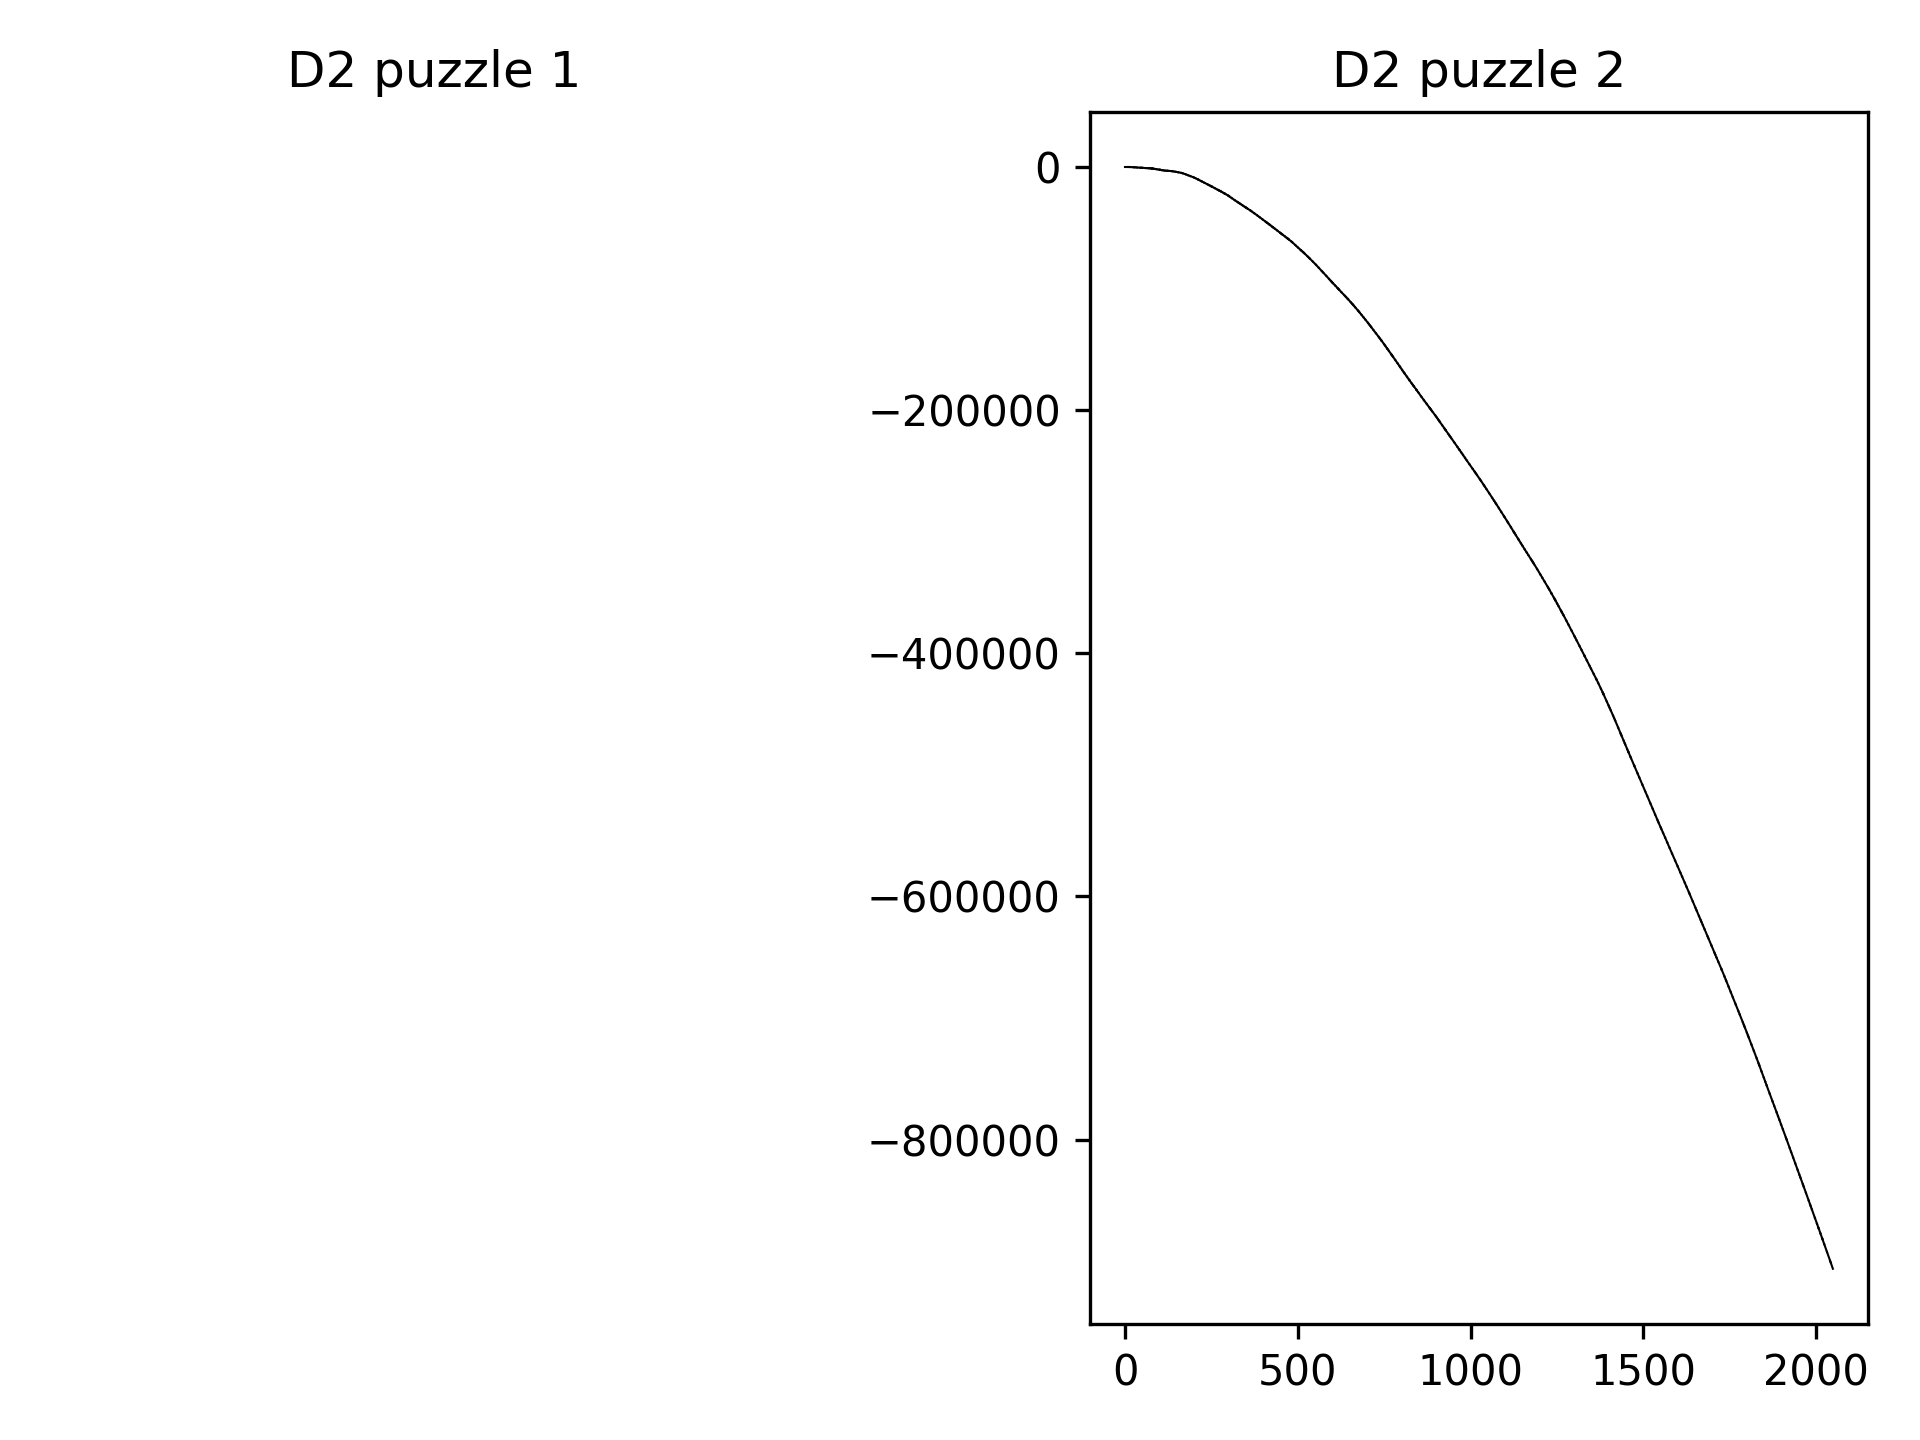
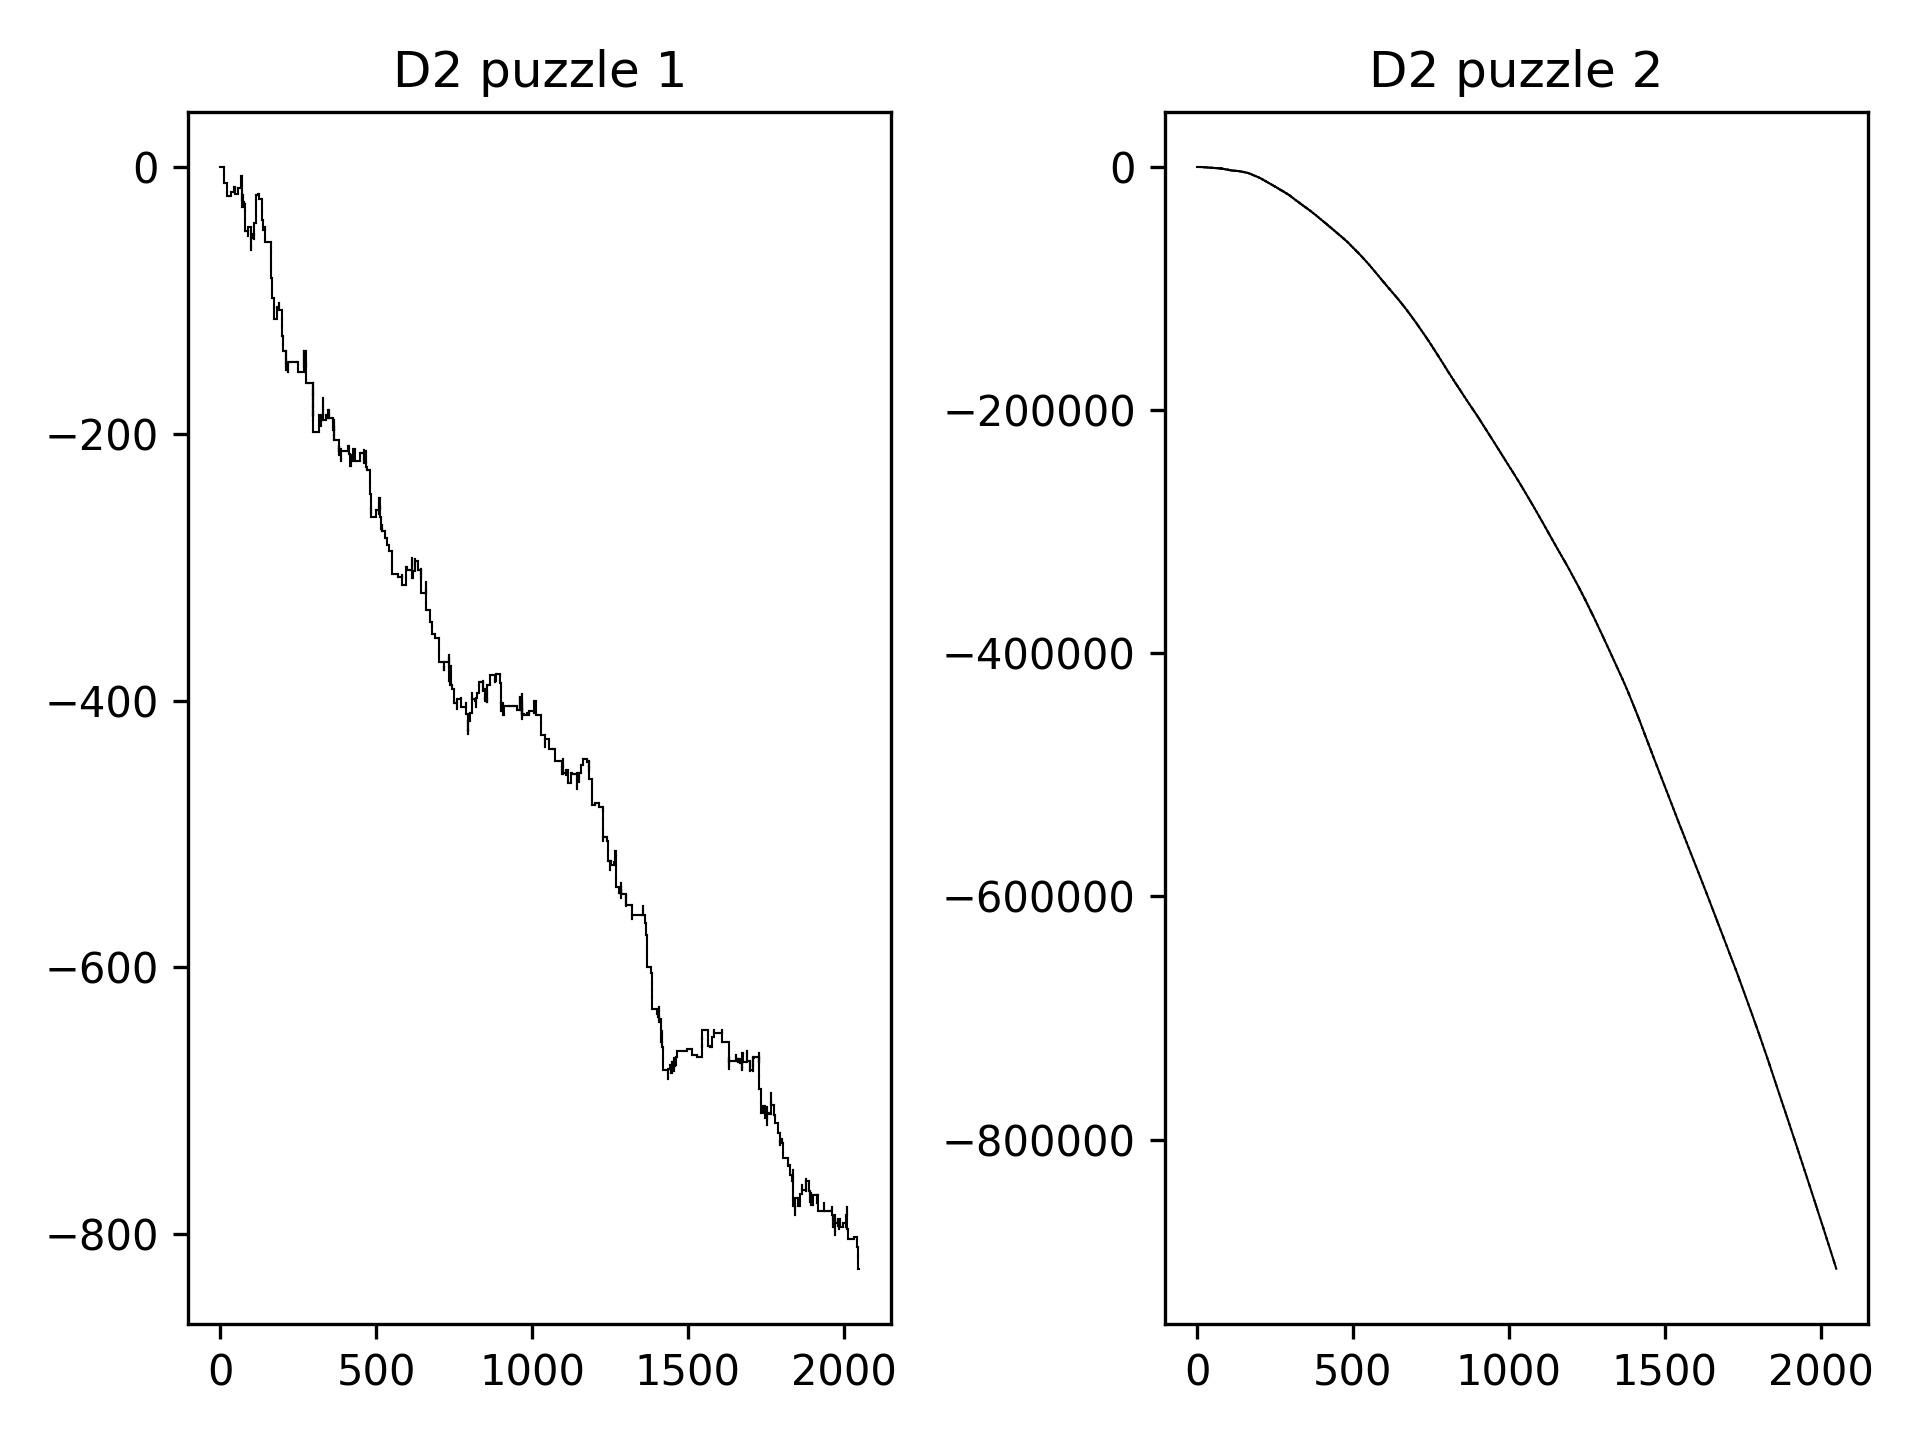
test Generative library

diff --git a/2021/D5_generativepy.py b/2021/D5_generativepy.py
@@ -1,0 +1,64 @@
+import myLib
+import re
+from generativepy.nparray import save_nparray_image
+import numpy as np
+
+DAY       = "D5"
+inputFile = "D:\Dev_Perso\\AdventOfCode\\2021\\"+DAY+".txt"
+
+# ==================================================================================================
+
+def computeMap( inputFile, diagonals:bool):
+    coords=[]
+    for coord in myLib.input_as_lines(inputFile):
+        coords.append( tuple( [int(val) for val in re.findall(r'\d+',coord)]))
+
+    #-> Init a map
+    maxX = max( [ max( [x1,x2]) for (x1, y1 ,x2,y2) in coords] )
+    maxY = max( [ max( [y1,y2]) for (x1, y1 ,x2,y2) in coords] )
+    map  = [[0] * (maxX+1) for i in range(maxY+1)]
+
+    image=np.full((maxX+1, maxY+1, 1), 0, dtype=np.uint)
+
+    # -> Draw the map
+    for (x1, y1, x2, y2) in coords:
+        if diagonals or not diagonals and ( x1==x2 or y1==y2):
+            dx      = (x2 > x1) - ( x2 < x1)
+            dy      = (y2 > y1) - ( y2 < y1)
+            nbIters = max([abs(y2 - y1) + 1, abs(x2 - x1) + 1])
+
+            for iter in range(nbIters):
+                map[x1 + iter * dx][y1 + iter * dy] += 1
+                image[x1 + iter * dx][y1 + iter * dy] += 1
+
+    #-> Compute sum ( cross points)
+    res = sum([sum(val >= 2 for val in row) for row in map])
+    return (res,image)
+
+# --------------------------------------------------------------------------------------------------
+def Puzzle_1( inputFile ):
+
+    res,image = computeMap(inputFile, False)
+    save_nparray_image('D5_puzzle1.png', myLib.generativePy_colorizeImage(image))
+
+    return res
+
+# --------------------------------------------------------------------------------------------------
+def Puzzle_2(inputFile):
+
+    res, image = computeMap(inputFile, True)
+    save_nparray_image('D5_puzzle2.png', myLib.generativePy_colorizeImage(image))
+
+    return res
+
+# ==================================================================================================
+
+myLib.display_header(DAY, inputFile )
+
+myLib.display_result("1",str(Puzzle_1( inputFile )))
+myLib.display_result("2",str(Puzzle_2( inputFile )))
+
+myLib.display_footer()
+
+
+

diff --git a/2021/myLib.py b/2021/myLib.py
@@ -1,6 +1,13 @@
 from typing import List
 from collections import deque
+import numpy as np
+
 import matplotlib.pyplot as plt
+
+from generativepy.nparray import  make_npcolormap, apply_npcolormap
+from generativepy.color import Color
+
+#- ------------------------------------------------------------------------------------------------------------------
 
 def input_as_string(filename:str) -> str:
     """returns the content of the input file as a string"""
@@ -34,6 +41,8 @@ def rotate_list( vList:List, vValue:int) -> List:
     items.rotate(vValue)
     return list(items)
 
+#- ------------------------------------------------------------------------------------------------------------------
+
 def display_header(day:str, filename:str):
     print("====================================================================================================")
     print("- " + day + " -> " + filename)
@@ -48,6 +57,8 @@ def display_footer():
     print("------------------------------------------------------------------------------------------")
     return
 
+#- ------------------------------------------------------------------------------------------------------------------
+
 def init_matlibgraph(day:str):
     figure, graph = plt.subplots(1, 2)
     graph[0].title.set_text(day + " puzzle 1")
@@ -60,3 +71,17 @@ def save_matlibgraph(figure, day:str):
     figure.tight_layout()
     figure.savefig(day + '.png',dpi=300)
 
+#- ------------------------------------------------------------------------------------------------------------------
+
+def generativePy_colorizeImage( image):
+    image = np.reshape(image, (image.shape[0], image.shape[1]))
+    power_counts = np.power(image, 1.2)
+    maxcount = np.max(power_counts)
+
+    normalised_counts = (power_counts * 1023 / max(maxcount, 1)).astype(np.uint32)
+
+    colormap = make_npcolormap(1024, [Color('black'), Color('red'), Color('orange'), Color('yellow'), Color('white')])
+    outarray = np.zeros((image.shape[0], image.shape[1], 3), dtype=np.uint8)
+    apply_npcolormap(outarray, normalised_counts, colormap)
+
+    return outarray

diff --git a/testGenerative.py b/testGenerative.py
@@ -1,0 +1,45 @@
+from generativepy.bitmap import Scaler
+from generativepy.nparray import make_nparray_data, save_nparray, load_nparray, make_npcolormap, apply_npcolormap, save_nparray_image
+from generativepy.color import Color
+from generativepy.analytics import print_stats, print_histogram
+import numpy as np
+
+MAX_COUNT = 10000000
+A = 0.9
+B = -0.6013
+C = 2.0
+D = 0.5
+
+
+def paint(image, pixel_width, pixel_height, frame_no, frame_count):
+    scaler = Scaler(pixel_width, pixel_height, width=3, startx=-2, starty=-2)
+
+    x = 0.01
+    y = 0.01
+    for i in range(MAX_COUNT):
+        x, y = x*x - y*y + A*x + B*y, 2*x*y + C*x + D*y
+        px, py = scaler.user_to_device(x, y)
+        image[py, px] += 1
+
+
+def colorise(counts):
+    counts = np.reshape(counts, (counts.shape[0], counts.shape[1]))
+    power_counts = np.power(counts, 0.25)
+    maxcount = np.max(power_counts)
+    normalised_counts = (power_counts * 1023 / max(maxcount, 1)).astype(np.uint32)
+
+    colormap = make_npcolormap(1024, [Color('black'), Color('red'), Color('orange'), Color('yellow'), Color('white')])
+
+    outarray = np.zeros((counts.shape[0], counts.shape[1], 3), dtype=np.uint8)
+    apply_npcolormap(outarray, normalised_counts, colormap)
+    return outarray
+
+
+data = make_nparray_data(paint, 1600, 1600, channels=1)
+
+#save_nparray("temp.dat", data)
+#data = load_nparray("temp.dat")
+
+frame = colorise(data)
+
+save_nparray_image('testGenerative.png', frame)

diff --git a/2021/D2.py b/2021/D2.py
@@ -6,16 +6,20 @@ inputFile = "D:\Dev_Perso\\AdventOfCode\\2021\\"+DAY+".txt"
 
 # --------------------------------------------------------------------------------------------------
 
-def Puzzle_1a( inputFile ):
+def Puzzle_1a( inputFile , graph ):
+    graph.axis('on')
     posHorizontal = 0
     posDepth      = 0
     rules         = { "forward" : (1,0), "up" : (0,-1), "down" : (0,1)}  #-> action : ( affectH, affectD )
 
     for line in myLib.input_as_lines(inputFile):
+        x, y           = posHorizontal, posDepth
         command        = line.split(' ')
         rule           = rules[command[0]]
         posHorizontal += rule[0] * int(command[1])
         posDepth      += rule[1] * int(command[1])
+
+        graph.plot([x, posHorizontal], [-y, -posDepth], linewidth=0.5, color=(0, 0, 0))
 
     return  posHorizontal * posDepth
 
@@ -53,9 +57,9 @@ figure,graph = myLib.init_matlibgraph(DAY)
 
 myLib.display_header(DAY, inputFile )
 
-myLib.display_result("1a",str(Puzzle_1a( inputFile )))
+myLib.display_result("1a",str(Puzzle_1a( inputFile , graph[0])))
 myLib.display_result("1b",str(Puzzle_1b( inputFile )))
-myLib.display_result("2 ",str(Puzzle_2( inputFile, graph[1] ) ,))
+myLib.display_result("2 ",str(Puzzle_2( inputFile, graph[1] )))
 
 myLib.display_footer()
 

diff --git a/2021/D6.py b/2021/D6.py
@@ -1,5 +1,4 @@
 import myLib
-import re
 
 DAY       = "D6"
 inputFile = "D:\Dev_Perso\\AdventOfCode\\2021\\"+DAY+".txt"
